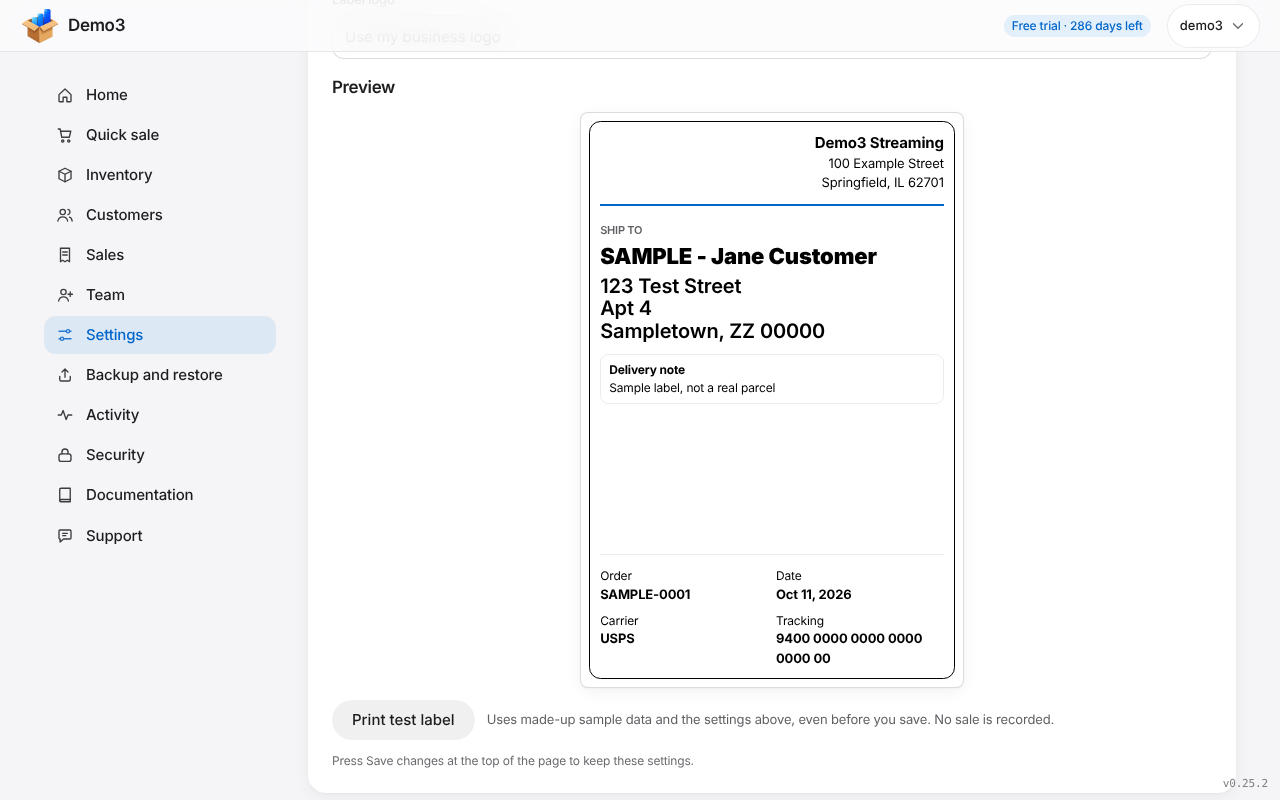
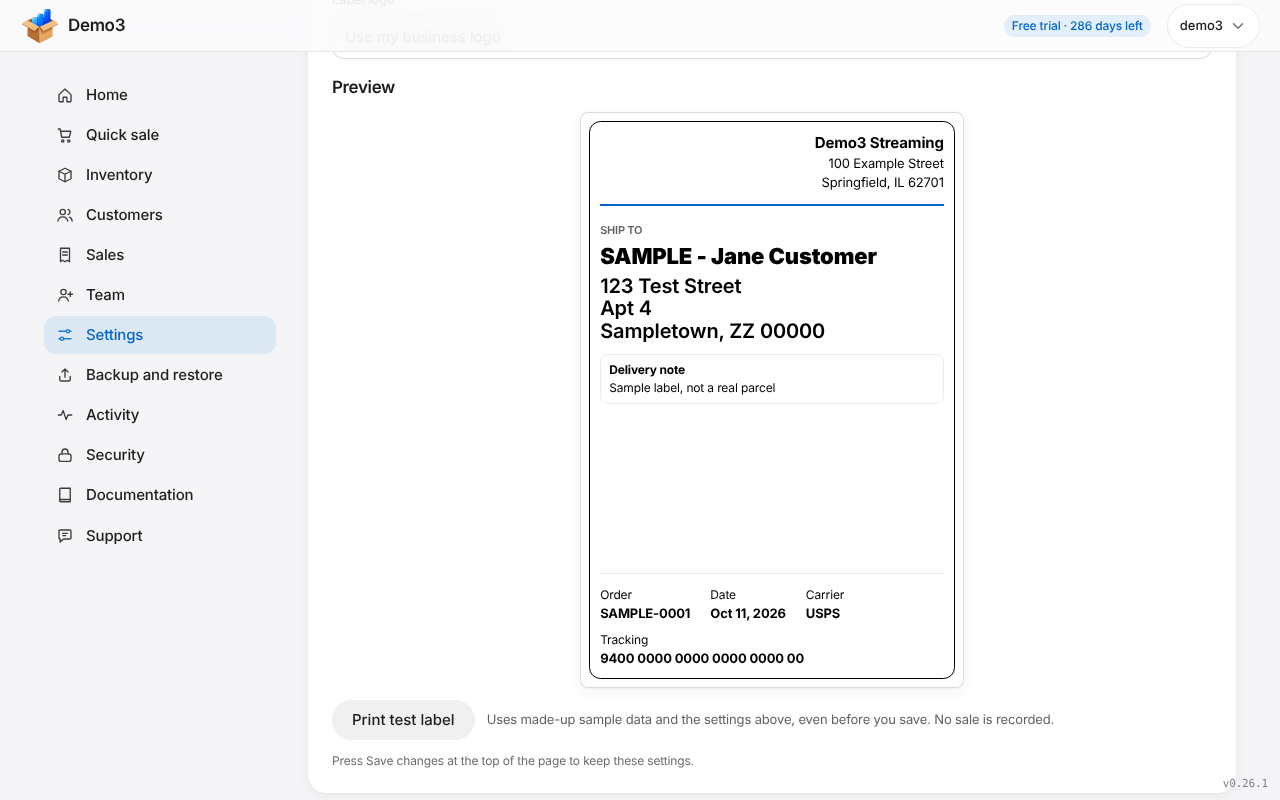
v0.26.1: tracking number stays on one line on the label
Claude-Session: https://claude.ai/code/session_01T9RbTAGYLrwNV7BWqHEM4u

Changed region(s): [[0.4688, 0.7188, 0.7188, 0.8438]]

diff --git a/public/css/commerce.css b/public/css/commerce.css
@@ -174,7 +174,8 @@ html.reorder-drag { user-select: none; -webkit-user-select: none; cursor: grabbi
 .label:is(.size-4x6, .size-dymo).txt-largest .label-to { font-size: var(--text-h1-sm); }
 .label:is(.size-4x6, .size-dymo).txt-largest .label-to span { font-size: var(--text-h2); }
 .label-note { margin-top: var(--space-md); padding: var(--space-xs) var(--space-sm); border: var(--border-default); border-radius: var(--radius-sm); font-size: var(--text-xs); overflow-wrap: anywhere; }
-.label-meta { display: grid; grid-template-columns: repeat(2, minmax(0, 1fr)); gap: var(--space-sm); margin-top: auto; padding-top: var(--space-md); border-top: var(--border-default); font-size: var(--text-xs); overflow-wrap: anywhere; }
+.label-meta { display: flex; flex-wrap: wrap; gap: var(--space-sm) var(--space-xl); margin-top: auto; padding-top: var(--space-md); border-top: var(--border-default); font-size: var(--text-xs); overflow-wrap: anywhere; }
+.label-meta > div { flex: 0 1 auto; min-width: var(--space-0); }   /* short items share a row; a long one such as a tracking number takes its own line instead of wrapping */
 .label-meta b { display: block; font-size: var(--text-sm); }
 .style-plain, .style-plain .label-tag { color: var(--color-label-ink); }
 .style-plain .label-note, .style-plain .label-meta { border-color: var(--color-label-ink); }

diff --git a/CHANGELOG.md b/CHANGELOG.md
@@ -3,6 +3,11 @@
 Every published version has an entry here, newest first. Format: [Keep a Changelog](https://keepachangelog.com/), versioning: [SemVer](https://semver.org/).
 These notes are used verbatim as the GitHub Release notes (see `docs/RELEASING.md`).
 
+## [0.26.1] - 2026-10-11
+
+### Fixed
+- **Long tracking numbers wrapped onto two lines on the printed label.** The Order, Date, Carrier and Tracking items at the bottom no longer sit in two equal columns: short items share a row and a long one, such as a tracking number, takes its own line. A test checks the tracking number is on one line. (The Download PDF version already did this.)
+
 ## [0.26.0] - 2026-10-11
 
 ### Added
